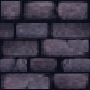
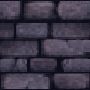
items in rooms now have absolute coordinates

diff --git a/game/js/maze/room.js b/game/js/maze/room.js
@@ -81,16 +81,20 @@ class RoomManager {
 
             let stateData = o.stateImages ? o.stateImages[o.state] : null;
             
-            // Теперь берем размеры строго из базовых настроек объекта
             let currentW = o.w || 100;
             let currentH = o.h || 100;
 
-            const centerX = o.x * w;
-            const centerY = o.y * h;
-            const dw = currentW * (w / 1920);
-            const dh = currentH * (h / 1080);
-            const dx = centerX - dw / 2;
-            const dy = centerY - dh / 2;
+            const baseScreenWidth = 1920;
+            const baseScreenHeight = 1080;
+
+            const actualX = o.x * (w / baseScreenWidth);
+            const actualY = o.y * (h / baseScreenHeight);
+
+            const dw = currentW * (w / baseScreenWidth);
+            const dh = currentH * (h / baseScreenHeight); 
+
+            const dx = actualX - dw / 2;
+            const dy = actualY - dh / 2;
 
             if (stateData && typeof stateData === 'object') {
                 const img = getCachedImage(stateData.sheet);
@@ -137,11 +141,18 @@ class RoomManager {
 
             let currentW = o.w || 100;
             let currentH = o.h || 100;
+            
+            const baseScreenWidth = 1920;
+            const baseScreenHeight = 1080;
 
-            const dw = currentW * (w / 1920);
-            const dh = currentH * (h / 1080);
-            const dx = o.x * w - dw / 2;
-            const dy = o.y * h - dh / 2;
+            const actualX = o.x * (w / baseScreenWidth);
+            const actualY = o.y * (h / baseScreenHeight);
+
+            const dw = currentW * (w / baseScreenWidth);
+            const dh = currentH * (h / baseScreenHeight);
+
+            const dx = actualX - dw / 2;
+            const dy = actualY - dh / 2;
 
             if (mx > dx && mx < dx + dw && my > dy && my < dy + dh) {
                 return { type: 'OBJECT', data: o };

diff --git a/game/js/dataLibraries/rooms.js b/game/js/dataLibraries/rooms.js
@@ -5,7 +5,7 @@ const INITIAL_ROOMS_DATA = {
             center: {
                 bg: "#1a1a1a",
                 objects: [
-                    { id: "pressure_button", x: 0.45, y: 0.7},
+                    { id: "pressure_button", x: 600, y: 600},
                 ]
             },
             left: {
@@ -28,7 +28,7 @@ const INITIAL_ROOMS_DATA = {
             left: {
                 bg: "#1a1a1a",
                 objects: [
-                    {id: "stone", x: 0.2, y: 0.8},
+                    {id: "stone", x: 384, y: 700},
                 ]
             },
             right: {
@@ -43,7 +43,7 @@ const INITIAL_ROOMS_DATA = {
             center: {
                 bg: "#1a1a1a",
                 objects: [
-                    { id: "gears", x: 0.5, y: 0.4 }
+                    { id: "gears", x: 960, y: 432}
                 ]
             },
             left: { bg: "#1a1a1a", objects: [] },
@@ -56,7 +56,7 @@ const INITIAL_ROOMS_DATA = {
             center: {
                 bg: "#1a1a1a",
                 objects: [
-                    { id: "broken_lever", x: 0.5, y: 0.5 }
+                    { id: "broken_lever", x: 960, y: 540 }
                 ]
             },
             left: { bg: "#1a1a1a", objects: [] },
@@ -69,7 +69,7 @@ const INITIAL_ROOMS_DATA = {
             center: {
                 bg: "#1a1a1a",
                 objects: [
-                    { id: "rusty_key", x: 0.5, y: 0.5 }
+                    { id: "rusty_key", x: 960, y: 540 }
                 ]
             },
             left: { bg: "#1a1a1a", objects: [] },
@@ -82,9 +82,9 @@ const INITIAL_ROOMS_DATA = {
             center: {
                 bg: "#1a1a1a",
                 objects: [
-                    { id: "statue_head", x: 0.5, y: 0.3 },
-                    { id: "statue_torso", x: 0.5, y: 0.5 },
-                    { id: "statue_legs", x: 0.5, y: 0.7 }
+                    { id: "statue_head", x: 960, y: 300  },
+                    { id: "statue_torso", x: 960, y: 500  },
+                    { id: "statue_legs", x: 960, y: 700 }
                 ]
             },
             left: { bg: "#1a1a1a", objects: [] },
@@ -95,7 +95,7 @@ const INITIAL_ROOMS_DATA = {
         isLocked: false,
         views: {
             center: { bg: "#1a1a1a", objects: [] },
-            left: { bg: "#1a1a1a", objects: [{ id: "ruby", x: 0.5, y: 0.5 }] },
+            left: { bg: "#1a1a1a", objects: [{ id: "ruby", x: 960, y: 540}] },
             right: { bg: "#1a1a1a", objects: [] }
         }
     },
@@ -104,7 +104,7 @@ const INITIAL_ROOMS_DATA = {
         views: {
             center: { bg: "#1a1a1a", objects: [] },
             left: { bg: "#1a1a1a", objects: [] },
-            right: { bg: "#1a1a1a", objects: [{ id: "spoon", x: 0.5, y: 0.5 }] }
+            right: { bg: "#1a1a1a", objects: [{ id: "spoon", x: 960, y: 540 }] }
         }
     },
 };